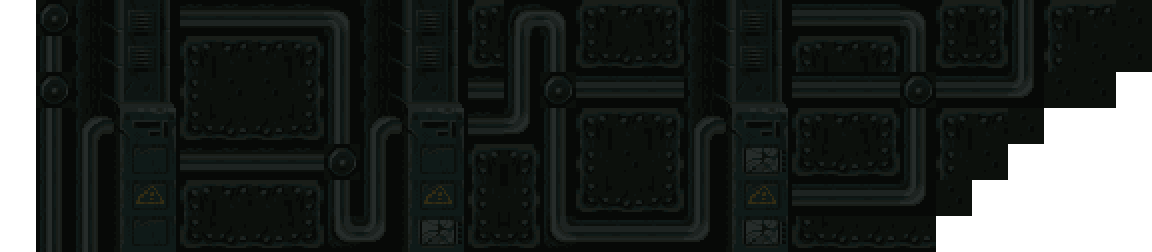
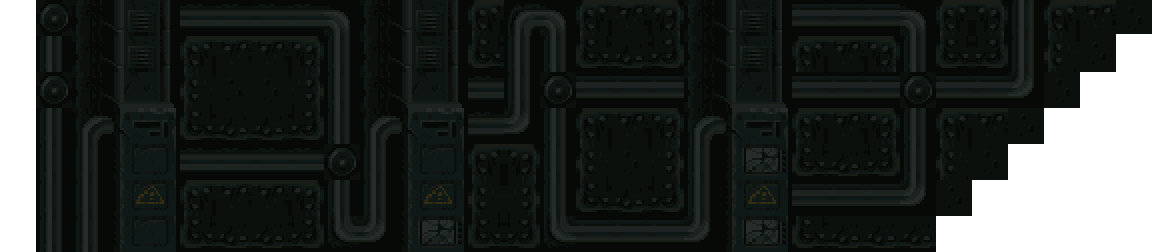
camera mouse influence added, environment sprites fixed

Changed region(s): [[0.9375, 0.1111, 1.0, 0.4444]]

diff --git a/DAE14_Tykhyi_Oleh/CollisionTest/Camera.cpp b/DAE14_Tykhyi_Oleh/CollisionTest/Camera.cpp
@@ -9,23 +9,33 @@ Camera::Camera(float screenWidth, float screenHeight)
 
 void Camera::Update(
 	float elapsedSec, 
+	const Vector2f& mouseScreenPos,
 	const Vector2f& trackCenter, 
 	float levelWidth, 
 	float levelHeight
 )
 {
+
+	Vector2f 
+		screenCenter{ m_ScreenWidth * 0.5f, m_ScreenHeight * 0.5f };
+
+	Vector2f 
+		mouseOffset{ mouseScreenPos.x - screenCenter.x, mouseScreenPos.y - screenCenter.y };
+
+	Vector2f 
+		targetCenter{ trackCenter.x + mouseOffset.x * m_MouseInfluence, trackCenter.y + mouseOffset.y * m_MouseInfluence };
+
 	float
 		yLimit{ -50.f };
 
 	//current = current + (target - current) * elapsedSec * speed
 	if (!m_IsInitialized)
 	{
-		m_CurrentCenter = trackCenter;
+		m_CurrentCenter = targetCenter;
 		m_IsInitialized = true;
 	}
 
-	m_CurrentCenter += (trackCenter - m_CurrentCenter) * m_CameraTrackSpeed * elapsedSec;
-	m_CurrentCenter = trackCenter;
+	m_CurrentCenter += (targetCenter - m_CurrentCenter) * m_CameraTrackSpeed * elapsedSec;
 	
 	m_BasePoint.x = m_CurrentCenter.x - m_ScreenWidth * 0.5f;
 	m_BasePoint.y = m_CurrentCenter.y - m_ScreenHeight * 0.5f;

diff --git a/DAE14_Tykhyi_Oleh/CollisionTest/AttackParticle.cpp b/DAE14_Tykhyi_Oleh/CollisionTest/AttackParticle.cpp
@@ -77,7 +77,14 @@ void AttackParticle::Draw() const
 		}
 		else
 		{
-			m_pSprite->Draw(m_Position, false, false);
+			if (!m_GlobalHitbox.empty())
+			{
+				m_pSprite->Draw(m_GlobalHitbox[0], false, false);
+			}
+			else
+			{
+				m_pSprite->Draw(m_Position, false, false);
+			}
 		}
 	}
 }
@@ -135,6 +142,10 @@ void AttackParticle::Deactivate()
 	m_GlobalHitbox.clear();
 	m_AttackType = AttackType::none;
 	m_OwnerType = OwnerType::none;
+	if (m_pSprite)
+	{
+		m_pSprite->ResetRotation();
+	}
 	m_pSprite = nullptr;
 
 	if (m_pLinkedEvent)

diff --git a/DAE14_Tykhyi_Oleh/CollisionTest/LevelManager.cpp b/DAE14_Tykhyi_Oleh/CollisionTest/LevelManager.cpp
@@ -78,10 +78,7 @@ void LevelManager::Update(float elapsedSec, const Uint8* pStates)
 	}
 	else if (m_State == LevelState::Replay)
 	{
-		if (!pStates[SDL_SCANCODE_L] || pStates[SDL_SCANCODE_RIGHT])
-		{
-			PlaybackFrame();
-		}
+		PlaybackFrame();
 	}
 }
 
@@ -143,6 +140,7 @@ void LevelManager::RecordParticleEvent(ReplayParticleEvent* pEvent)
 {
 	if (m_ReplayBuffer.empty() || m_State != LevelState::Gameplay)
 	{
+		delete pEvent;
 		return;
 	}
 
@@ -251,7 +249,8 @@ void LevelManager::PlaybackFrame()
 {
 	if (m_ReplayFrameIndex >= m_ReplayBuffer.size())
 	{
-		m_ReplayFrameIndex = 0;
+		ResetLevel();
+		m_State = LevelState::Gameplay;
 		return;
 	}
 	

diff --git a/DAE14_Tykhyi_Oleh/CollisionTest/Cursor.cpp b/DAE14_Tykhyi_Oleh/CollisionTest/Cursor.cpp
@@ -20,3 +20,9 @@ void Cursor::Update(const SDL_MouseMotionEvent& event)
 	m_Position.x = static_cast<float>(event.x);
 	m_Position.y = static_cast<float>(event.y);
 }
+
+const Vector2f& Cursor::GetPosition() const
+{
+	return m_Position;
+}
+

diff --git a/DAE14_Tykhyi_Oleh/CollisionTest/Camera.h b/DAE14_Tykhyi_Oleh/CollisionTest/Camera.h
@@ -7,6 +7,7 @@ public:
 
 	void Update(
 		float elapsedSec, 
+		const Vector2f& mouseScreenPos,
 		const Vector2f& trackCenter,
 		float levelWidth, 
 		float levelHeight
@@ -21,7 +22,8 @@ private:
 	const float
 		m_ScreenWidth{},
 		m_ScreenHeight{},
-		m_CameraTrackSpeed{10.f};
+		m_CameraTrackSpeed{ 10.f },
+		m_MouseInfluence{ 0.15f };
 
 	Vector2f
 		m_CurrentCenter{},

diff --git a/DAE14_Tykhyi_Oleh/CollisionTest/Game.cpp b/DAE14_Tykhyi_Oleh/CollisionTest/Game.cpp
@@ -122,7 +122,7 @@ void Game::Update( float elapsedSec )
 		m_pMap->Update(timeDivider * elapsedSec, m_pSoundManager, m_pPlayer);
 	}
 
-	m_pCamera->Update(elapsedSec, m_pPlayer->GetPosition(), 1756.f, 750.f);
+	m_pCamera->Update(elapsedSec, m_pCursor->GetPosition(), m_pPlayer->GetPosition(), 1756.f, 750.f);
 }
 
 void Game::Draw( ) const

diff --git a/DAE14_Tykhyi_Oleh/CollisionTest/Cursor.h b/DAE14_Tykhyi_Oleh/CollisionTest/Cursor.h
@@ -16,6 +16,7 @@ public:
 
 	void Update(const SDL_MouseMotionEvent& event);
 
+	const Vector2f& GetPosition() const;
 private:
 	Sprite* m_pCursorSprite{};
 	Vector2f m_Position{};